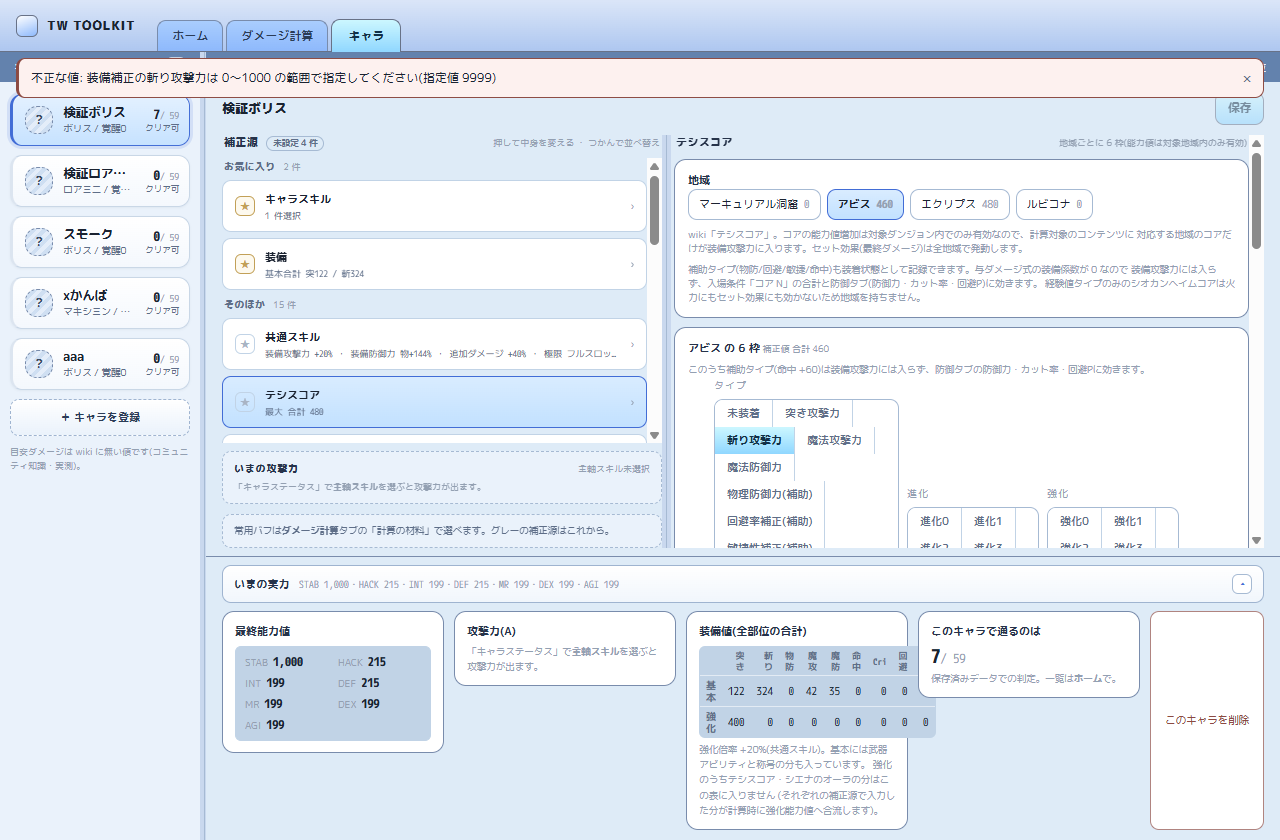
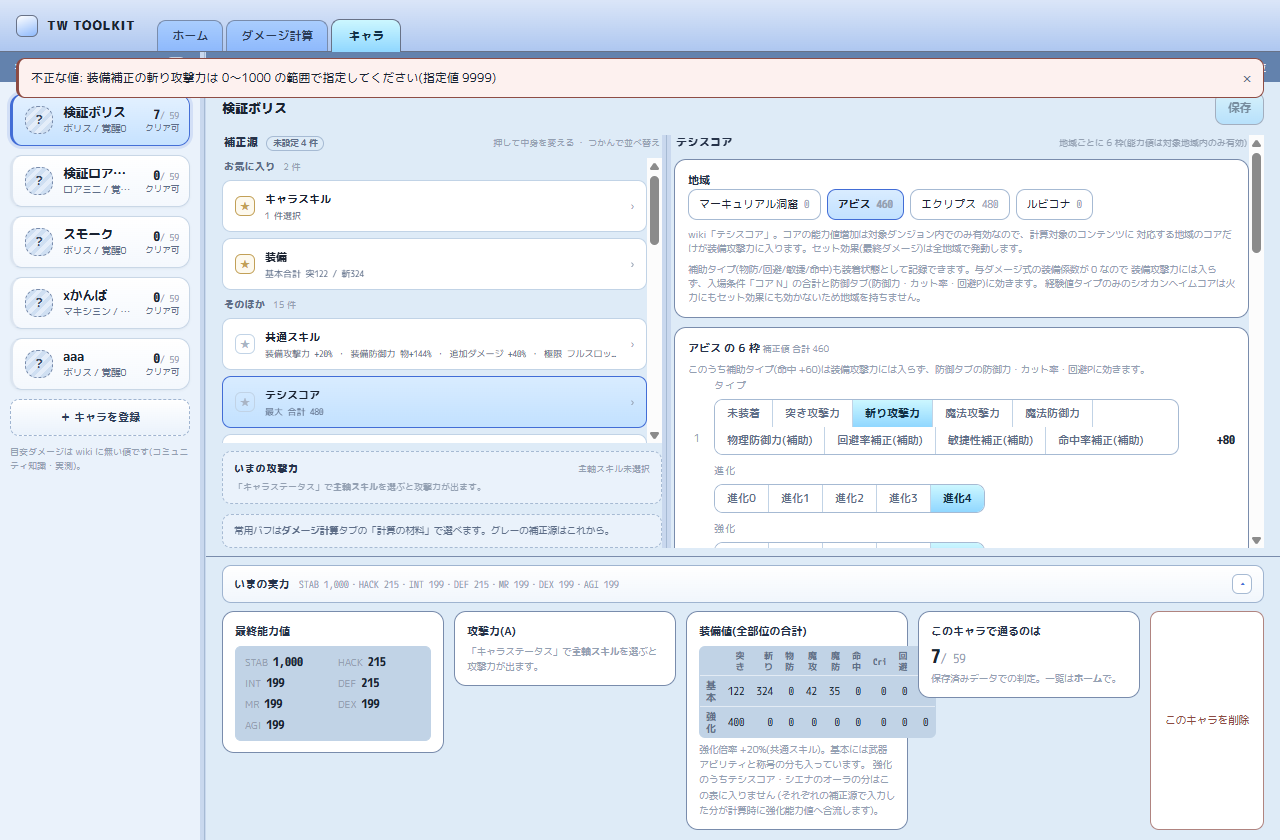
fix(ui): テシスコアの枠を 2 行にする(§00「触る場所だけ大きく」)
タイプ(8 択)を進化・強化と同じ行の狭い枠に押し込んでいたので、段階選択が
縦に折り返して読めなかった。タイプは 1 行使い、進化・強化を下の行に横並びにした。

Claude-Session: https://claude.ai/code/session_01JvRWxU3ohwNNHW2hQatCCP

Changed region(s): [[0.5625, 0.4643, 0.9062, 0.65], [0.8125, 0.5881, 0.9062, 0.65]]

diff --git a/apps/desktop/src/pages/chars/SourcePane.svelte b/apps/desktop/src/pages/chars/SourcePane.svelte
@@ -1517,6 +1517,7 @@
               options={coreTypeOptions}
               bind:value={() => core?.core_type ?? "", (v) => setCoreType(index, v)}
             />
+            <span class="core-stage">
             <StepSelect
               label="進化"
               options={coreEvolutionOptions}
@@ -1535,6 +1536,7 @@
                 (v) => setCoreStage(index, "enhancement", Number(v))
               }
             />
+            </span>
             <span class="core-bonus num" class:support={core !== null && !CORE_POWER_TYPES.includes(core.core_type)}>
               {core ? `+${fmtInt(coreBonus(core.core_type, core.evolution, core.enhancement))}` : "—"}
             </span>
@@ -1860,10 +1862,18 @@
   }
   .region-tab.on { background: linear-gradient(180deg, #D9ECFF, #C2E1FF); border-color: var(--accent); font-weight: 700; }
   .core-list { display: flex; flex-direction: column; gap: 8px; }
+  /* タイプは 8 択なので 1 行使う。狭い枠に押し込むとセグメントが縦に折り返して読めない。
+     進化・強化は 5 択なので下の行に横並び(§00「触る場所だけ大きく」) */
   .core-row {
-    display: grid; grid-template-columns: 18px minmax(110px, 1.4fr) minmax(84px, 1fr) minmax(84px, 1fr) 48px;
+    display: grid;
+    grid-template-columns: 18px 1fr 48px;
+    grid-template-areas: "n type bonus" ". stage stage";
     gap: 8px; align-items: end;
+    padding-bottom: 9px; border-bottom: 1px dashed var(--border-soft);
   }
+  .core-row:last-child { padding-bottom: 0; border-bottom: 0; }
+  .core-row > :global(*:nth-child(2)) { grid-area: type; }
+  .core-stage { grid-area: stage; display: flex; flex-wrap: wrap; gap: 8px 14px; }
   .core-slot { font-size: 11px; padding-bottom: 8px; text-align: center; }
   .core-bonus { font-size: 12px; font-weight: 700; padding-bottom: 8px; text-align: right; }
   .core-bonus.support { color: var(--fg-muted); font-weight: 400; }
